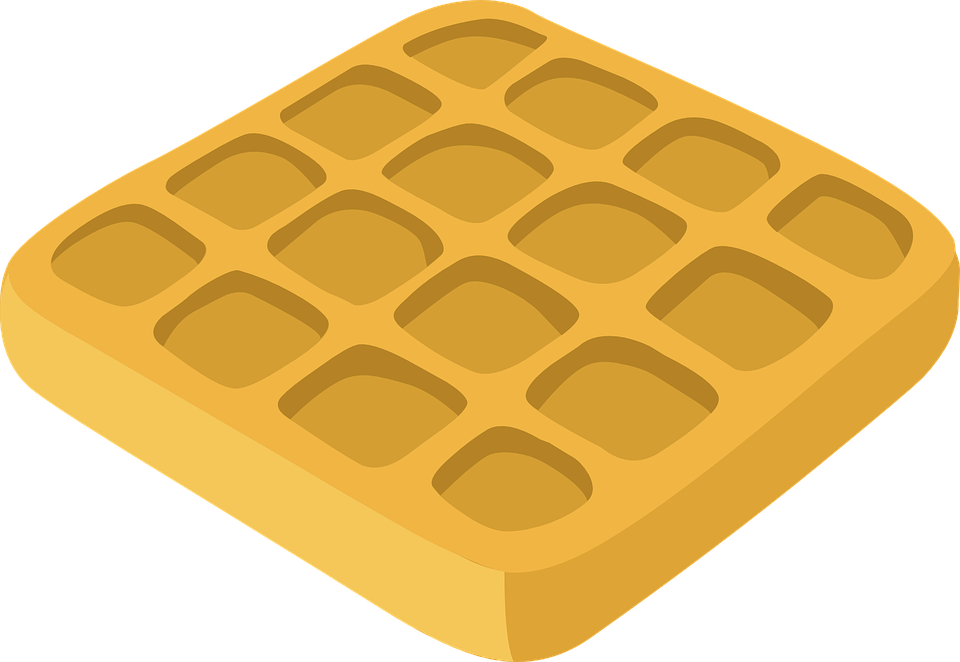
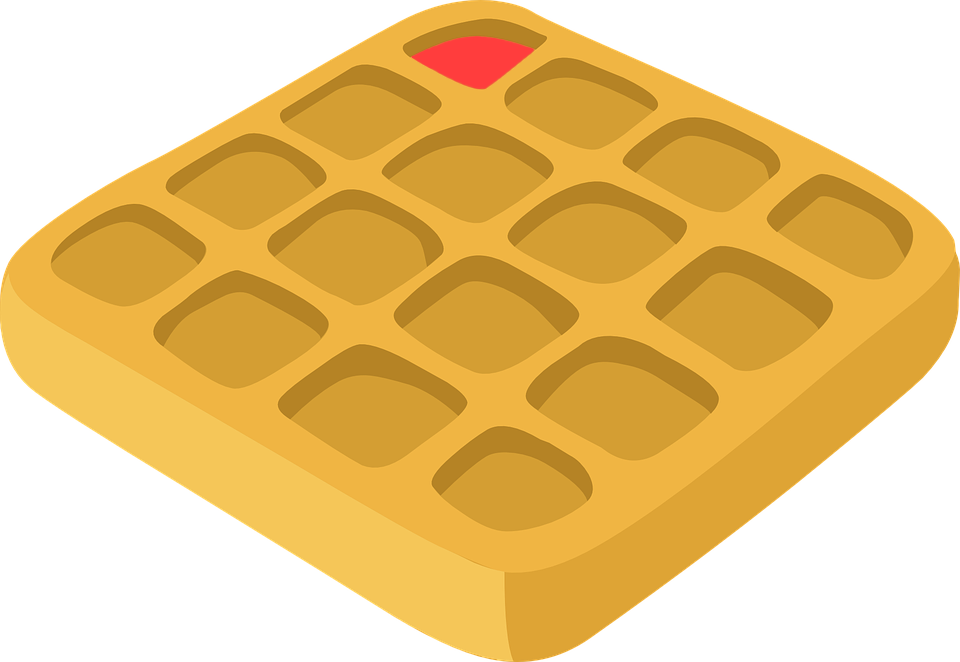
Prévisualisation du futur coup si on clique sur la gaufre

Changed region(s): [[0.4375, 0.0302, 0.5625, 0.1511]]

diff --git a/src/Vue/GaufreGraphique.java b/src/Vue/GaufreGraphique.java
@@ -12,7 +12,8 @@ import java.io.File;
 import java.io.IOException;
 
 public class GaufreGraphique extends JComponent implements Observateur {
-    Image case_saine, case_poison, quitter, annuler, refaire, save, load, reset;
+    Image case_saine, case_poison, quitter, annuler, refaire, save, load, reset, case_saine_select, case_quitter_select,
+            case_annuler_select, case_refaire_select, case_save_select, case_load_select, case_reset_select;
     Jeu j;
     int largeurCase, hauteurCase, largeur_bouton, hauteur_bouton, posX_boutons, posY_bouton_annuler, posY_bouton_refaire, posX_save, posX_load, posY_save_load,
     largeur_load_save, posY_bouton_quitter, posY_reset;
@@ -20,11 +21,12 @@ public class GaufreGraphique extends JComponent implements Observateur {
     CollecteurEvenements collecteur;
     Graphics2D drawable;
     JFrame f;
+    public int l, c;
 
-    public GaufreGraphique(JFrame frame, Jeu jeu, CollecteurEvenements c) throws IOException {
+    public GaufreGraphique(JFrame frame, Jeu jeu, CollecteurEvenements col) throws IOException {
         f = frame;
         j = jeu;
-        collecteur = c;
+        collecteur = col;
         j.ajouteObservateur(this);
         case_saine = lisImage("case_saine");
         case_poison = lisImage("case_poison");
@@ -34,8 +36,17 @@ public class GaufreGraphique extends JComponent implements Observateur {
         save = lisImage("save");
         load = lisImage("load");
         reset = lisImage("reinitialiser");
+        case_saine_select = lisImage("case_saine_select");
+        case_quitter_select = lisImage("quitter_partie_select");
+        case_annuler_select = lisImage("annuler_select");
+        case_refaire_select = lisImage("refaire_select");
+        case_save_select = lisImage("save_select");
+        case_load_select = lisImage("load_select");
+        case_reset_select = lisImage("reinitialiser_select");
         progressBar = new JProgressBar(0, 100);
         addMouseListener(new GaufreGraphiqueListener(this));
+        l = j.gaufre().lignes();
+        c = j.gaufre().colonnes();
     }
 
     public void paintComponent(Graphics g) {
@@ -60,7 +71,10 @@ public class GaufreGraphique extends JComponent implements Observateur {
                     tracer(drawable, case_poison, j * largeurCase, i * hauteurCase, largeurCase, hauteurCase);
                 } else {
                     if(!gaufre.estMangee(i,j)) {
-                        tracer(drawable, case_saine, j * largeurCase, i * hauteurCase, largeurCase, hauteurCase);
+                        if(i>=l && j>=c)
+                            tracer(drawable, case_saine_select, j * largeurCase, i * hauteurCase, largeurCase, hauteurCase);
+                        else
+                            tracer(drawable, case_saine, j * largeurCase, i * hauteurCase, largeurCase, hauteurCase);
                     }
                 }
             }

diff --git a/src/Vue/GaufreGraphiqueListener.java b/src/Vue/GaufreGraphiqueListener.java
@@ -84,6 +84,10 @@ public class GaufreGraphiqueListener implements MouseListener {
             }else{
                 if(l<g.j.gaufre().lignes() && c<g.j.gaufre().colonnes() && !g.j.gaufre().estMangee(l,c)) {
                     g.setToolTipText("Manger ce morceau");
+                    g.l=l;
+                    g.c=c;
+                    System.out.println("l="+l+" c="+c);
+                    g.miseAJour();
                     return true;
                 }else{
                     return false;
